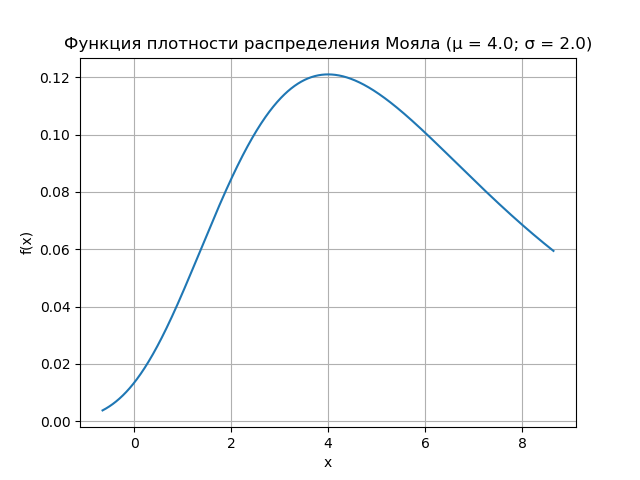
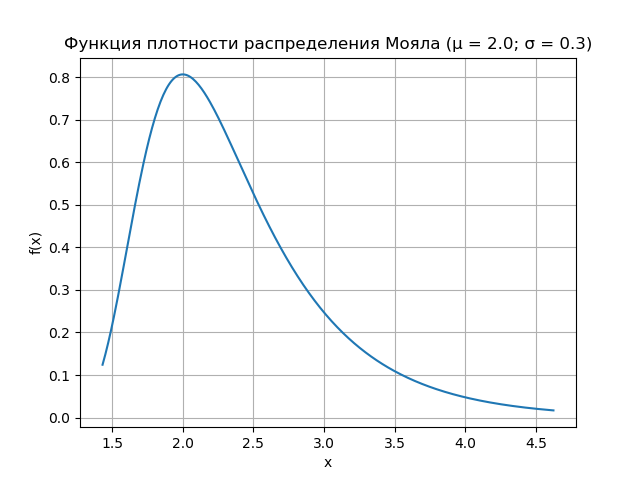
lab5 - ppf fix

diff --git a/5/algorithms.py b/5/algorithms.py
@@ -53,8 +53,8 @@ def make_sequence(n, a, b, mu, sigm):
 
 # Определить границы интервала
 def get_bounds(mu, sigm):
-    a = scipy.stats.norm.ppf(0.01, loc=mu, scale=sigm)
-    b = scipy.stats.norm.ppf(0.99, loc=mu, scale=sigm)
+    a = scipy.stats.moyal.ppf(0.01, loc=mu, scale=sigm)
+    b = scipy.stats.moyal.ppf(0.99, loc=mu, scale=sigm)
     return a, b
 
 
